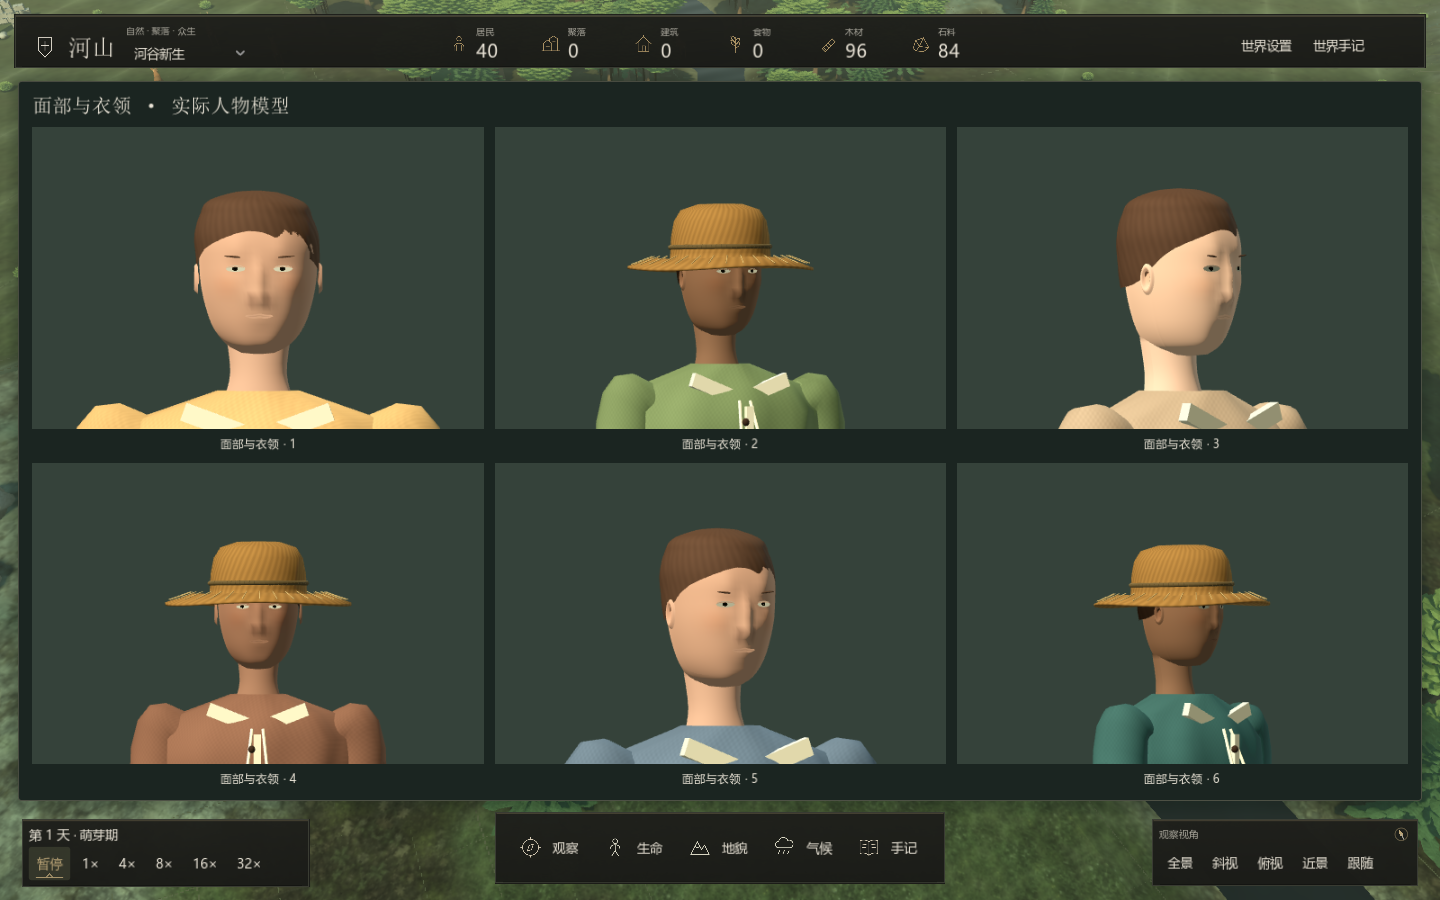
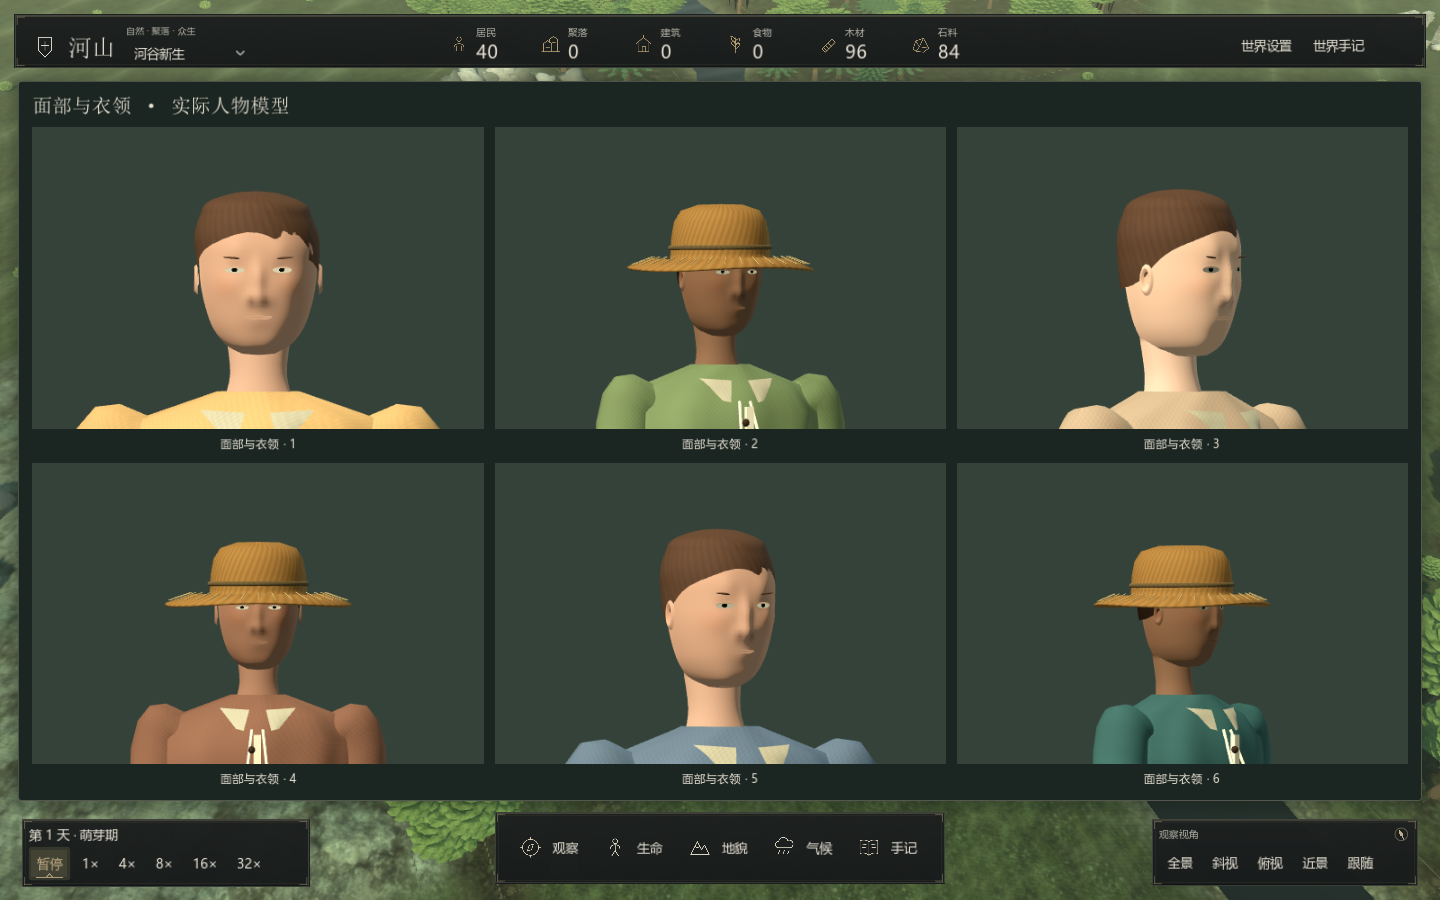
Refine character anatomy, building details and HUD feedback

diff --git a/src/SandBoxSim.Godot/NatureModels.ArchitectureDetail.cs b/src/SandBoxSim.Godot/NatureModels.ArchitectureDetail.cs
@@ -91,15 +91,32 @@ internal sealed partial class NatureModels
                 for(int row=0;row<12;row++) foreach(float side in new[]{-1f,1f})
                     Part(model,"cylinder",new(side*width/2,.27f+row*.138f,0),new(.14f,depth+.12f,.14f),0,new(Godot.Mathf.Pi/2,0,0));
             if(variant==2 && kind==BuildingKind.House)
-                for(int row=0;row<11;row++) for(int col=0;col<7;col++)
+                for(int row=0;row<11;row++) for(int col=0;col<8;col++)
                 {
-                    float x=-width/2+(col+.5f)*width/7;
+                    float offset=row%2==0?0:.5f;
+                    float left=Godot.Mathf.Max(-width/2,-width/2+(col-offset)*width/7),right=Godot.Mathf.Min(width/2,-width/2+(col+1-offset)*width/7);
+                    float near=Godot.Mathf.Max(-depth/2,-depth/2+(col-offset)*depth/7),far=Godot.Mathf.Min(depth/2,-depth/2+(col+1-offset)*depth/7);
+                    if(right-left<.02f || far-near<.02f)continue;
+                    float x=(left+right)/2;
                     foreach(float side in new[]{-1f,1f})
-                        Part(model,"box",new(x,.18f+(row+.5f)*height/11,side*(depth/2+.026f)),new(width/7-.012f,height/11-.012f,.07f),6);
-                    float stoneZ=-depth/2+(col+.5f)*depth/7;
+                        Part(model,"box",new(x,.18f+(row+.5f)*height/11,side*(depth/2+.026f)),new(right-left-.012f,height/11-.012f,.07f),6);
+                    float stoneZ=(near+far)/2;
                     foreach(float side in new[]{-1f,1f})
-                        Part(model,"box",new(side*(width/2+.026f),.18f+(row+.5f)*height/11,stoneZ),new(.07f,height/11-.012f,depth/7-.012f),6);
+                        Part(model,"box",new(side*(width/2+.026f),.18f+(row+.5f)*height/11,stoneZ),new(.07f,height/11-.012f,far-near-.012f),6);
                 }
+            if(kind==BuildingKind.House && _fineArchitecture)
+            {
+                foreach(float side in new[]{-1f,1f})
+                {
+                    int first=model.GetChildCount();Window(model,0,0,0);
+                    var placement=new Transform3D(new Basis(Vector3.Up,side*Godot.Mathf.Pi/2),new(side*(width/2+.075f),1.25f,depth*.13f));
+                    for(int i=first;i<model.GetChildCount();i++)
+                    {var part=model.GetChild<Node3D>(i);part.Transform=placement*part.Transform;}
+                }
+                // Cut ends and pegs make the eaves readable without unmerged accessory nodes.
+                foreach(float side in new[]{-1f,1f})for(int i=0;i<5;i++)
+                    Part(model,"box",new(side*(width/2+.11f),height+.13f,-depth/2+(i+.5f)*depth/5),new(.25f,.075f,.07f),0);
+            }
             if(variant==4 && kind==BuildingKind.House) LeanToDetail(model,width,depth,height);
             // Stacked firewood, a braced barrel and rain-darkened chimney cap.
             for(int i=0;i<5;i++) Part(model,"cylinder",new(width/2+.12f,.16f+(i/3)*.12f,-depth/2+.28f+(i%3)*.11f),new(.09f,.40f,.09f),0,new(0,0,Godot.Mathf.Pi/2));

diff --git a/src/SandBoxSim.Godot/NatureModels.Animals.cs b/src/SandBoxSim.Godot/NatureModels.Animals.cs
@@ -34,17 +34,17 @@ ROUGHNESS=0.96; SPECULAR=0.18;
         var fur = Fur(wolf);
         float back = wolf ? .83f : 1.03f;
         var body = Loft(wolf ? "wolf-body" : "deer-body", new[] {
-            new Vector4(-.63f,back,.015f,.03f), new(-.48f,back,.19f,.25f), new(-.3f,back,.28f,.29f),
+            new Vector4(-.71f,back+(wolf?.32f:.40f),.015f,.03f), new(-.60f,back+.10f,.13f,.21f),
+            new(-.48f,back,.19f,.25f), new(-.3f,back,.28f,.29f),
             new(-.08f,back-.025f,.26f,.3f), new(.18f,back-.04f,.23f,.24f), new(.40f,back,.26f,.29f),
             new(.55f,back,.19f,.22f), new(.64f,back,.012f,.025f) });
         Sculpt(rig.Body, body, Vector3.Zero, fur);
-        Sculpt(rig.Body,Shape("sphere"),new(0,back-.025f,-.43f),fur).Scale=new(.42f,.51f,.52f);
         // Broad shoulders taper continuously into the chest and rising neck.
         var neck = Loft(wolf ? "wolf-neck" : "deer-neck", new[] {
             new Vector4(-.32f,back,.02f,.02f), new(-.48f,back+.12f,.20f,.25f),
-            new(-.62f,back+.33f,.15f,.24f), new(-.74f,back+.48f,.10f,.14f), new(-.84f,back+.47f,.02f,.025f) });
+            new(-.62f,back+(wolf?.25f:.33f),wolf?.13f:.15f,.21f), new(-.74f,back+(wolf?.36f:.48f),.10f,.14f), new(-.84f,back+(wolf?.35f:.47f),.02f,.025f) });
         Sculpt(rig.Body, neck, Vector3.Zero, fur);
-        rig.Head = new Node3D { Name = "Head", Position = new Vector3(0,back+.44f,-.78f) }; rig.Body.AddChild(rig.Head);
+        rig.Head = new Node3D { Name = "Head", Position = new Vector3(0,back+(wolf?.32f:.44f),-.78f) }; rig.Body.AddChild(rig.Head);
         Sculpt(rig.Head, Loft(wolf ? "wolf-head" : "deer-head", new[] {
             new Vector4(.15f,0,.008f,.015f), new(.06f,.045f,.145f,.14f), new(-.08f,.035f,.14f,.13f),
             new(-.20f,-.015f,.09f,.085f), new(-.36f,-.04f,.055f,.055f), new(-.40f,-.04f,.006f,.012f) }), Vector3.Zero, fur);
@@ -79,6 +79,11 @@ ROUGHNESS=0.96; SPECULAR=0.18;
             float lower=y-.32f;
             Sculpt(knee,Loft("animal-shin-"+wolf,new[]{new Vector4(-.02f,0,.036f,.035f),new(lower*.2f,0,.036f,.034f),new(lower*.6f,.012f,.026f,.025f),new(lower-.03f,.022f,.028f,.03f)}),Vector3.Zero,fur,new(MathF.PI/2,0,0));
             Detail(knee,"sphere",new(0,-lower+.035f,-.035f),new(wolf ? .11f : .078f,.10f,wolf ? .17f : .12f),wolf ? "#585b53" : "#493e32");
+            if(wolf)for(int toe=0;toe<3;toe++)
+            {
+                Detail(knee,"sphere",new((toe-1)*.030f,-lower+.019f,-.089f),new(.032f,.050f,.060f),"#585b53");
+                Detail(knee,"seed",new((toe-1)*.030f,-lower+.018f,-.116f),new(.009f,.012f,.019f),"#34352e");
+            }
             if(!wolf) FineBeam(knee,new(0,-lower+.028f,-.094f),new(0,-lower+.075f,-.091f),.008f,"#b19e80");
         }
         rig.Tail=new Node3D { Name="Tail",Position=new(0,back,.55f) }; rig.Body.AddChild(rig.Tail);

diff --git a/src/SandBoxSim.Godot/NatureModels.Residents.cs b/src/SandBoxSim.Godot/NatureModels.Residents.cs
@@ -12,7 +12,7 @@ internal sealed partial class NatureModels
     {
         if (!_residentMaterials.TryGetValue(color, out var material))
         {
-            bool fabric = color is "#536d68" or "#b4956a" or "#866756" or "#6e7881" or "#798261" or "#a8937d" or "#75654f" or "#645e53";
+            bool fabric = color is "#536d68" or "#b4956a" or "#866756" or "#6e7881" or "#798261" or "#a8937d" or "#75654f" or "#645e53" or "#a59c86";
             material = color is "#aa8b78" or "#8e705e" or "#ba9d89" or "#806653" ? SkinSurface(color) : color is "#42352c" or "#695344" ? HairSurface(color) : fabric ? Fabric(color) : new StandardMaterial3D { AlbedoColor = new Color(color), Roughness = roughness, MetallicSpecular = .22f };
             _residentMaterials[color] = material;
         }
@@ -85,7 +85,7 @@ internal sealed partial class NatureModels
         // Collar, placket and the hem distinguish tailored cloth from the body's silhouette.
         foreach (float side in new[] { -1f, 1f })
         {
-            Detail(rig.Torso, "box", new Vector3(side * .065f, 1.235f, -.095f), new Vector3(.09f, .027f, .017f), "#b9b099", new Vector3(0, 0, side * .35f));
+            Sculpt(rig.Torso,CollarLeaf(side),Vector3.Zero,ResidentMaterial("#a59c86"));
             Detail(rig.Torso, "box", new Vector3(side * .145f, .67f, -.11f), new Vector3(.012f, .13f, .012f), cloth, new Vector3(0, 0, side * -.10f));
         }
         Detail(rig.Torso, "box", new Vector3(0, 1.11f, -.145f), new Vector3(.016f, .18f, .012f), "#b9b099");

diff --git a/src/SandBoxSim.Godot/NatureModels.Tailoring.cs b/src/SandBoxSim.Godot/NatureModels.Tailoring.cs
@@ -5,6 +5,25 @@ using SandBoxSim.Core.Agents;
 namespace SandBoxSim.Client;
 internal sealed partial class NatureModels
 {
+    private Mesh CollarLeaf(float side)
+    {
+        string key="fitted-collar:"+side;
+        if(_meshes.TryGetValue(key,out var cached))return cached;
+        using var surface=new SurfaceTool();surface.Begin(Mesh.PrimitiveType.Triangles);surface.SetSmoothGroup(0);
+        Vector3 Point(int row,int column)
+        {
+            float v=row/8f,u=column/8f;
+            float inner=Mathf.Lerp(.018f,.030f,v),outer=Mathf.Lerp(.083f,.047f,v);
+            float x=side*Mathf.Lerp(inner,outer,u),y=Mathf.Lerp(1.250f,1.208f,v)+u*.004f;
+            return TorsoSurface(x,y,false,.004f+.0015f*MathF.Sin(u*MathF.PI));
+        }
+        for(int r=0;r<8;r++)for(int c=0;c<8;c++)
+        {
+            var a=Point(r,c);var b=Point(r,c+1);var d=Point(r+1,c);var e=Point(r+1,c+1);
+            EquipmentTriangle(surface,a,b,d,Vector3.Forward);EquipmentTriangle(surface,b,e,d,Vector3.Forward);
+        }
+        surface.GenerateNormals();surface.Index();var mesh=surface.Commit();_meshes[key]=mesh;return mesh;
+    }
     private void AddResidentTailoring(ResidentRig rig,string cloth,string skin,JobType job)
     {
         // Curved hem stitches follow the existing garment, with a back vent and belt fastening.

diff --git a/src/SandBoxSim.Godot/NatureModels.Sculpture.cs b/src/SandBoxSim.Godot/NatureModels.Sculpture.cs
@@ -41,14 +41,14 @@ internal sealed partial class NatureModels
             {
                 // A flatter facial plane, rounded chin, nasal bridge/tip and recessed eye sockets.
                 p.Z=Mathf.Lerp(p.Z,-depth*.94f,MathF.Pow(front,8)*.45f);
-                float bridge=MathF.Exp(-p.X*p.X*540-MathF.Pow(p.Y+.015f,2)*115);
-                float tip=MathF.Exp(-p.X*p.X*520-MathF.Pow(p.Y+.14f,2)*420);
+                float bridge=MathF.Exp(-p.X*p.X*380-MathF.Pow(p.Y+.015f,2)*95);
+                float tip=MathF.Exp(-p.X*p.X*330-MathF.Pow(p.Y+.14f,2)*280);
                 float socket=MathF.Exp(-MathF.Pow(MathF.Abs(p.X)-.19f,2)*250-MathF.Pow(p.Y-.045f,2)*380);
                 float lip=MathF.Exp(-p.X*p.X*120-MathF.Pow(p.Y+.275f,2)*300);
                 float cheek = MathF.Exp(-MathF.Pow(MathF.Abs(p.X)-.27f,2)*90-MathF.Pow(p.Y+.06f,2)*130);
                 float brow = MathF.Exp(-MathF.Pow(MathF.Abs(p.X)-.18f,2)*170-MathF.Pow(p.Y-.17f,2)*190);
                 float ala = MathF.Exp(-MathF.Pow(MathF.Abs(p.X)-.082f,2)*380-MathF.Pow(p.Y+.15f,2)*280);
-                p.Z-=bridge*.050f+tip*.062f+ala*.022f+lip*.015f+cheek*.014f+brow*.014f-socket*.018f;
+                p.Z-=bridge*.047f+tip*.048f+ala*.018f+lip*.014f+cheek*.017f+brow*.012f-socket*.015f;
             }
             return p;
         }

diff --git a/src/SandBoxSim.Godot/HudStyle.cs b/src/SandBoxSim.Godot/HudStyle.cs
@@ -7,11 +7,11 @@ internal static class HudStyle
 {
     public static bool MotionEnabled { get; set; } = true;
     public static readonly Color Ink = new("#1b201f"), Surface = new(.075f, .092f, .09f, .97f), Text = new("#e9e3d6"),
-        Muted = new("#aca99e"), Accent = new("#bba477"), Border = new("#4d5044"), Wash = new("#30382f");
+        Muted = new("#b5b4a9"), Accent = new("#c2ae84"), Border = new("#53574e"), Wash = new("#30382f");
     private static Texture2D? _leather;
     private static ShaderMaterial? _frameMaterial;
     public static ShaderMaterial FrameMaterial => _frameMaterial ??= new ShaderMaterial { Shader = new Shader { Code =
-        "shader_type canvas_item; void fragment(){ vec4 c = texture(TEXTURE,UV)*COLOR; vec3 base=mix(vec3(.089,.092,.081),vec3(.151,.155,.133),1.0-UV.y); float edge=pow(1.0-UV.y,8.0)*.018; COLOR=vec4(base+c.rgb*.035+edge,c.a); }" } };
+        "shader_type canvas_item; void fragment(){ vec4 c = texture(TEXTURE,UV)*COLOR; vec3 base=mix(vec3(.078,.092,.093),vec3(.145,.157,.150),1.0-UV.y); float edge=pow(1.0-UV.y,8.0)*.014; COLOR=vec4(base+c.rgb*.025+edge,c.a); }" } };
     public static StyleBox Frame(int padding)
     {
         if (_leather == null)

diff --git a/src/SandBoxSim.Godot/HudBevel.cs b/src/SandBoxSim.Godot/HudBevel.cs
@@ -10,6 +10,13 @@ internal partial class HudBevel : Control
     {
         var outer = new Rect2(new Vector2(-Margin + 1, -Margin + 1), Size + Vector2.One * (Margin * 2 - 2));
         DrawRect(outer,new Color(HudStyle.Border,.6f),false,1);
+        DrawRect(outer.Grow(-3),new Color(HudStyle.Accent,.065f),false,1);
+        foreach(var corner in new[]{outer.Position,new Vector2(outer.End.X,outer.Position.Y),new Vector2(outer.Position.X,outer.End.Y),outer.End})
+        {
+            float sx=corner.X==outer.Position.X?1:-1,sy=corner.Y==outer.Position.Y?1:-1;
+            DrawLine(corner+new Vector2(sx*2,sy*2),corner+new Vector2(sx*10,sy*2),new Color(HudStyle.Accent,.36f),1,true);
+            DrawLine(corner+new Vector2(sx*2,sy*2),corner+new Vector2(sx*2,sy*10),new Color(HudStyle.Accent,.36f),1,true);
+        }
         DrawLine(outer.Position+new Vector2(1,1),new Vector2(outer.End.X-1,outer.Position.Y+1),new Color(HudStyle.Accent,.25f),1,true);
         DrawLine(new Vector2(outer.Position.X+8,outer.End.Y-1),outer.End-new Vector2(8,1),new Color(0,0,0,.25f),1,true);
     }

diff --git a/src/SandBoxSim.Godot/MainGame.Interface.cs b/src/SandBoxSim.Godot/MainGame.Interface.cs
@@ -368,7 +368,7 @@ public partial class MainGame
     {
         var item = new HBoxContainer { SizeFlagsHorizontal = SizeFlags.ExpandFill }; item.AddThemeConstantOverride("separation", 7); row.AddChild(item);
         item.AddChild(new TextureRect { Texture = HudSymbols.For(title), CustomMinimumSize = new Vector2(24, 30), ExpandMode = TextureRect.ExpandModeEnum.IgnoreSize, StretchMode = TextureRect.StretchModeEnum.KeepAspectCentered, Modulate = HudStyle.Accent });
-        var stack = new VBoxContainer(); stack.AddThemeConstantOverride("separation", 0); item.AddChild(stack); stack.AddChild(HudStyle.Label(title.Replace("储备", ""), 10, true));
+        var stack = new VBoxContainer(); stack.AddThemeConstantOverride("separation", 0); item.AddChild(stack); stack.AddChild(HudStyle.Label(title.Replace("储备", ""), 11, true));
         var metric = HudStyle.Label(value, size); stack.AddChild(metric); return metric;
     }
     private static Godot.Button ActionButton(Container parent, string label, Action action)

diff --git a/src/SandBoxSim.Godot/HudButtonDetail.cs b/src/SandBoxSim.Godot/HudButtonDetail.cs
@@ -34,8 +34,9 @@ internal partial class HudButtonDetail : Control
         bool selected = _button.ToggleMode && _button.ButtonPressed;
         float strength = selected ? .85f : _light * .55f;
         if (strength < .01f) { return; }
-        float half = (Size.X - 16) * (selected ? .5f : .16f + .34f * _light);
         Color accent=_button.HasMeta("notebook") ? new Color("#806644") : HudStyle.Accent;
+        DrawRect(new Rect2(new Vector2(3,3),Size-new Vector2(6,6)),new Color(accent,selected?.105f:_light*.04f));
+        float half = (Size.X - 16) * (selected ? .5f : .16f + .34f * _light);
         var center = new Vector2(Size.X / 2, Size.Y - 3);
         DrawLine(center - new Vector2(half, 0), center + new Vector2(half, 0), new Color(accent, strength), 1, true);
         if (selected)

diff --git a/src/SandBoxSim.Godot/MainGame.Notebook.cs b/src/SandBoxSim.Godot/MainGame.Notebook.cs
@@ -5,9 +5,9 @@ public partial class MainGame
 {
     private void StyleNotebook()
     {
-        Color paper=new("#d7cebc"),ink=new("#343a30"),muted=new("#565f4f"),accent=new("#755b3d");
+        Color paper=new("#e0d7c6"),ink=new("#2c332e"),muted=new("#535b50"),accent=new("#755b3d");
         _journalPanel.Material=null;
-        var surface=HudStyle.Box(paper,3,18);surface.BorderColor=new("#9e9f8c");
+        var surface=HudStyle.Box(paper,3,18);surface.BorderColor=new("#a08d6d");surface.BorderWidthLeft=3;surface.ShadowColor=new Color(0,0,0,.22f);surface.ShadowSize=18;
         _journalPanel.AddThemeStyleboxOverride("panel",surface);_journalPanel.GetChild<HudBevel>(0).Visible=false;
         void Apply(Node node)
         {

diff --git a/src/SandBoxSim.Godot/NatureModels.cs b/src/SandBoxSim.Godot/NatureModels.cs
@@ -53,7 +53,7 @@ internal sealed partial class NatureModels
             "finger-low" => new SphereMesh { Radius=.5f,Height=1,RadialSegments=8,Rings=4 },
             "seed" => new SphereMesh { Radius=.5f,Height=1,RadialSegments=12,Rings=6 },
             "masonry" => SoftBlock(),
-            "face" => SculptedHead(false),
+            "face" => SculptedHead(false,96,56),
             "hair" => SculptedHead(true),
             "cone" => new CylinderMesh { TopRadius = 0, BottomRadius = .5f, Height = 1, RadialSegments = 16 },
             "cylinder" => new CylinderMesh { TopRadius = .5f, BottomRadius = .5f, Height = 1, RadialSegments = 16 },

diff --git a/src/SandBoxSim.Godot/ResidentRig.cs b/src/SandBoxSim.Godot/ResidentRig.cs
@@ -133,7 +133,7 @@ internal partial class ResidentRig : Node3D
         _faceTime+=delta;
         if(_detailedHead)
         {
-            float blinkPhase=(_faceTime+identityPhase*.37f)%4.7f;
+            float blinkPhase=(_faceTime+1.1f+identityPhase*2.3f)%4.7f;
             float blink=blinkPhase<.28f?MathF.Sin(blinkPhase/.28f*MathF.PI):0;
             LidMaterial.SetShaderParameter("blink",blink);
             for(int eye=0;eye<2;eye++){Eyes[eye].Scale=new(1,MathF.Max(.02f,1-blink),1);Eyes[eye].Rotation=Vector3.Zero;}
